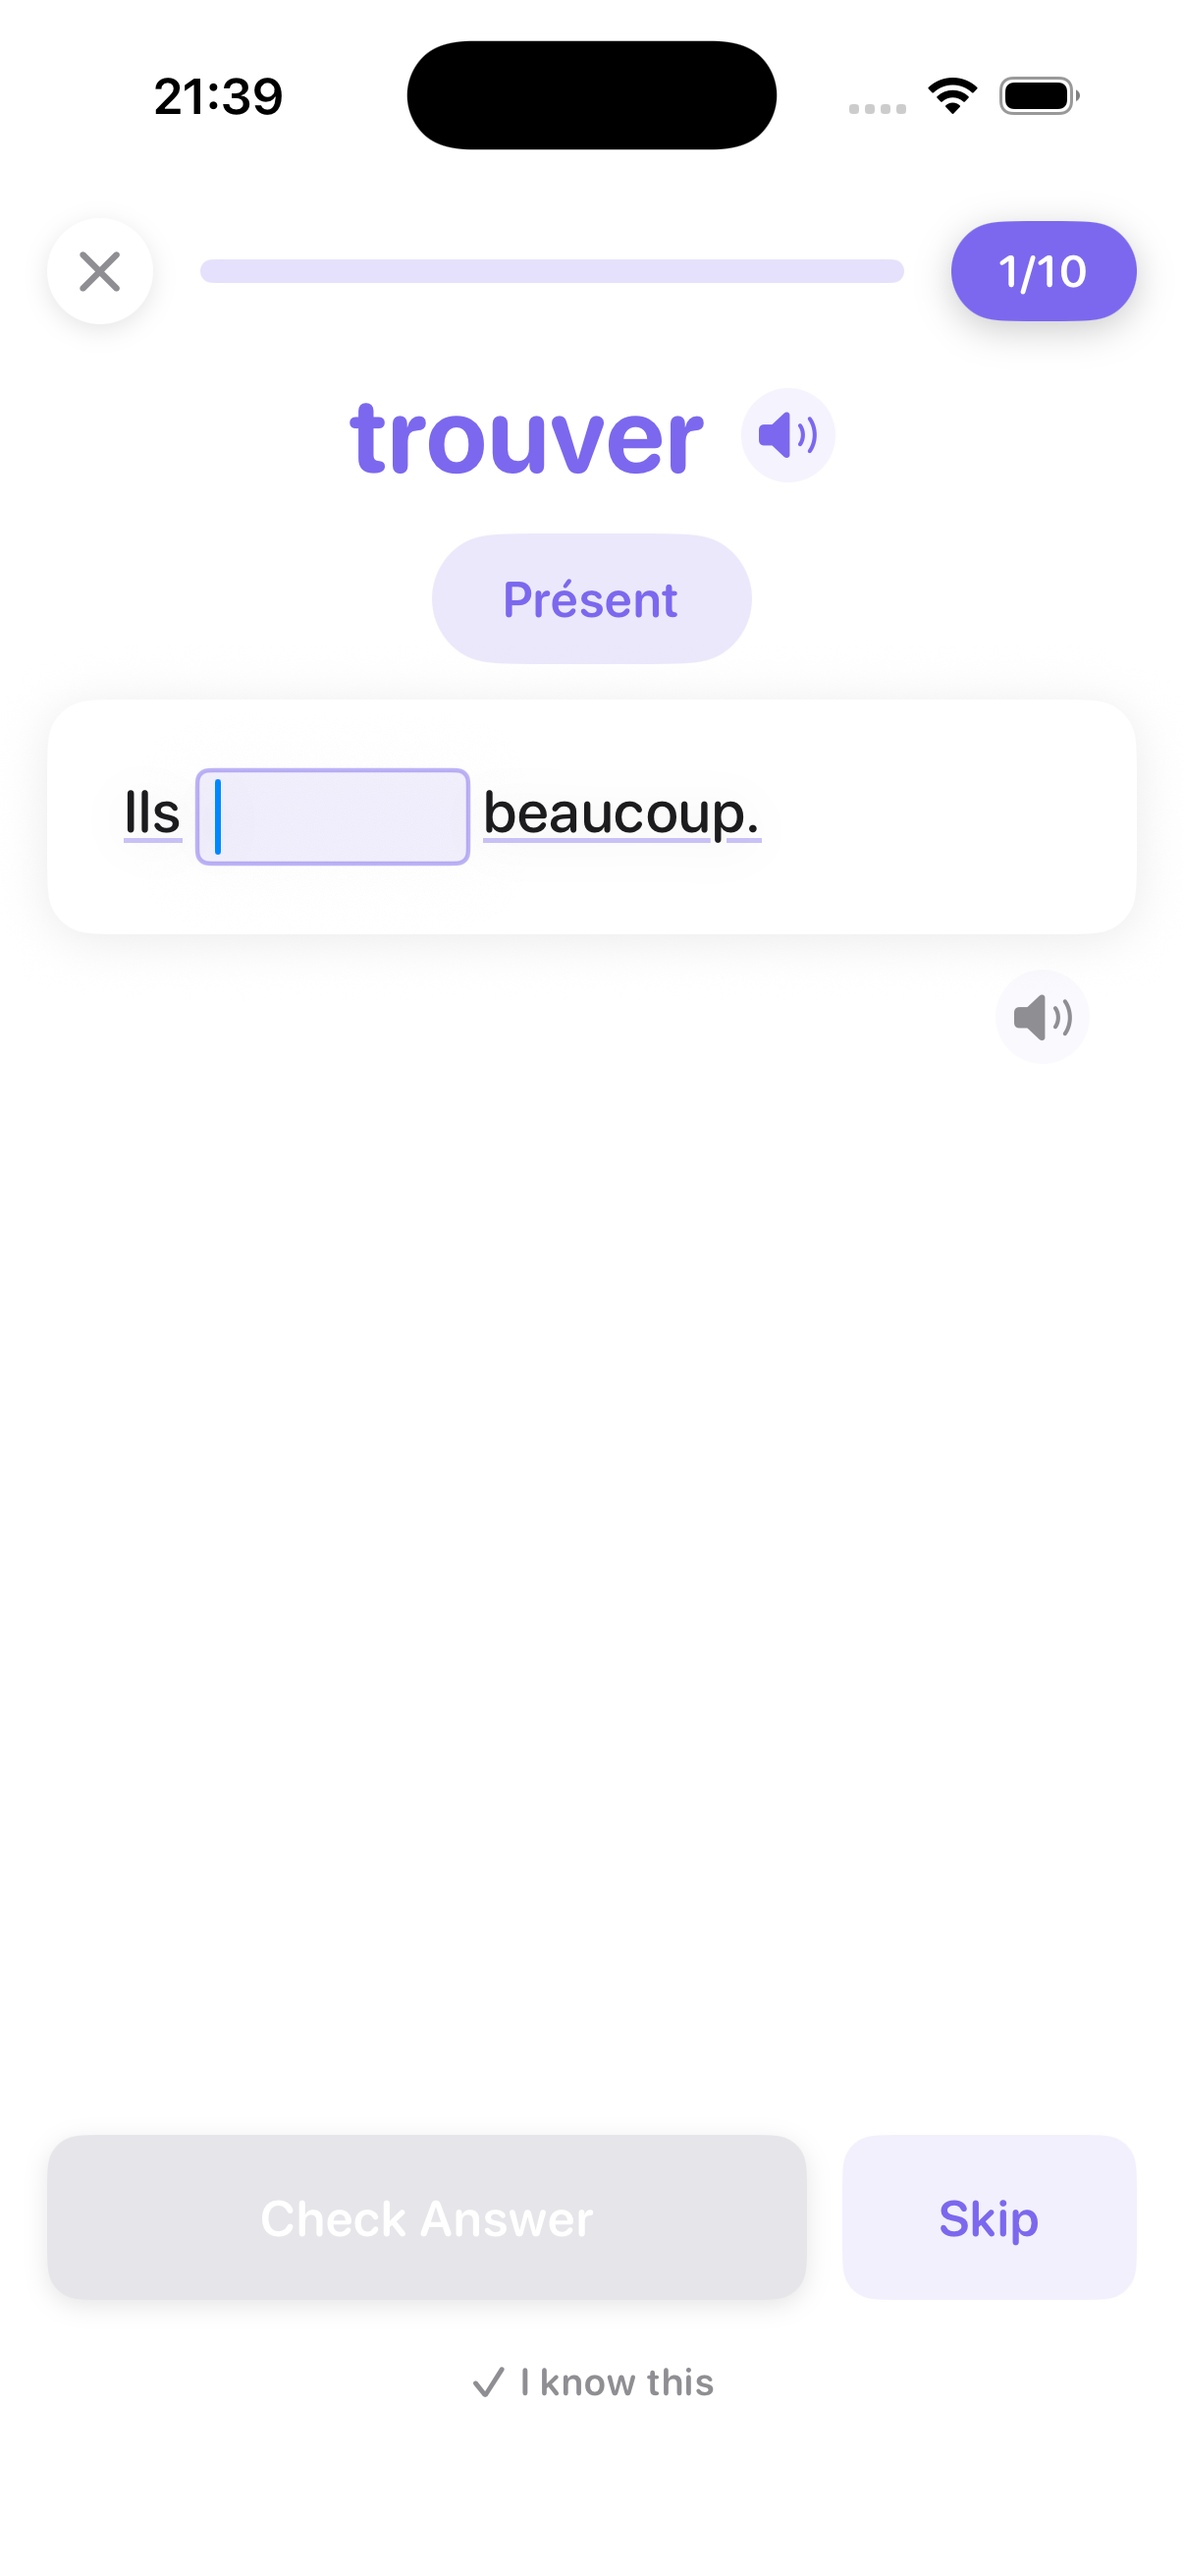
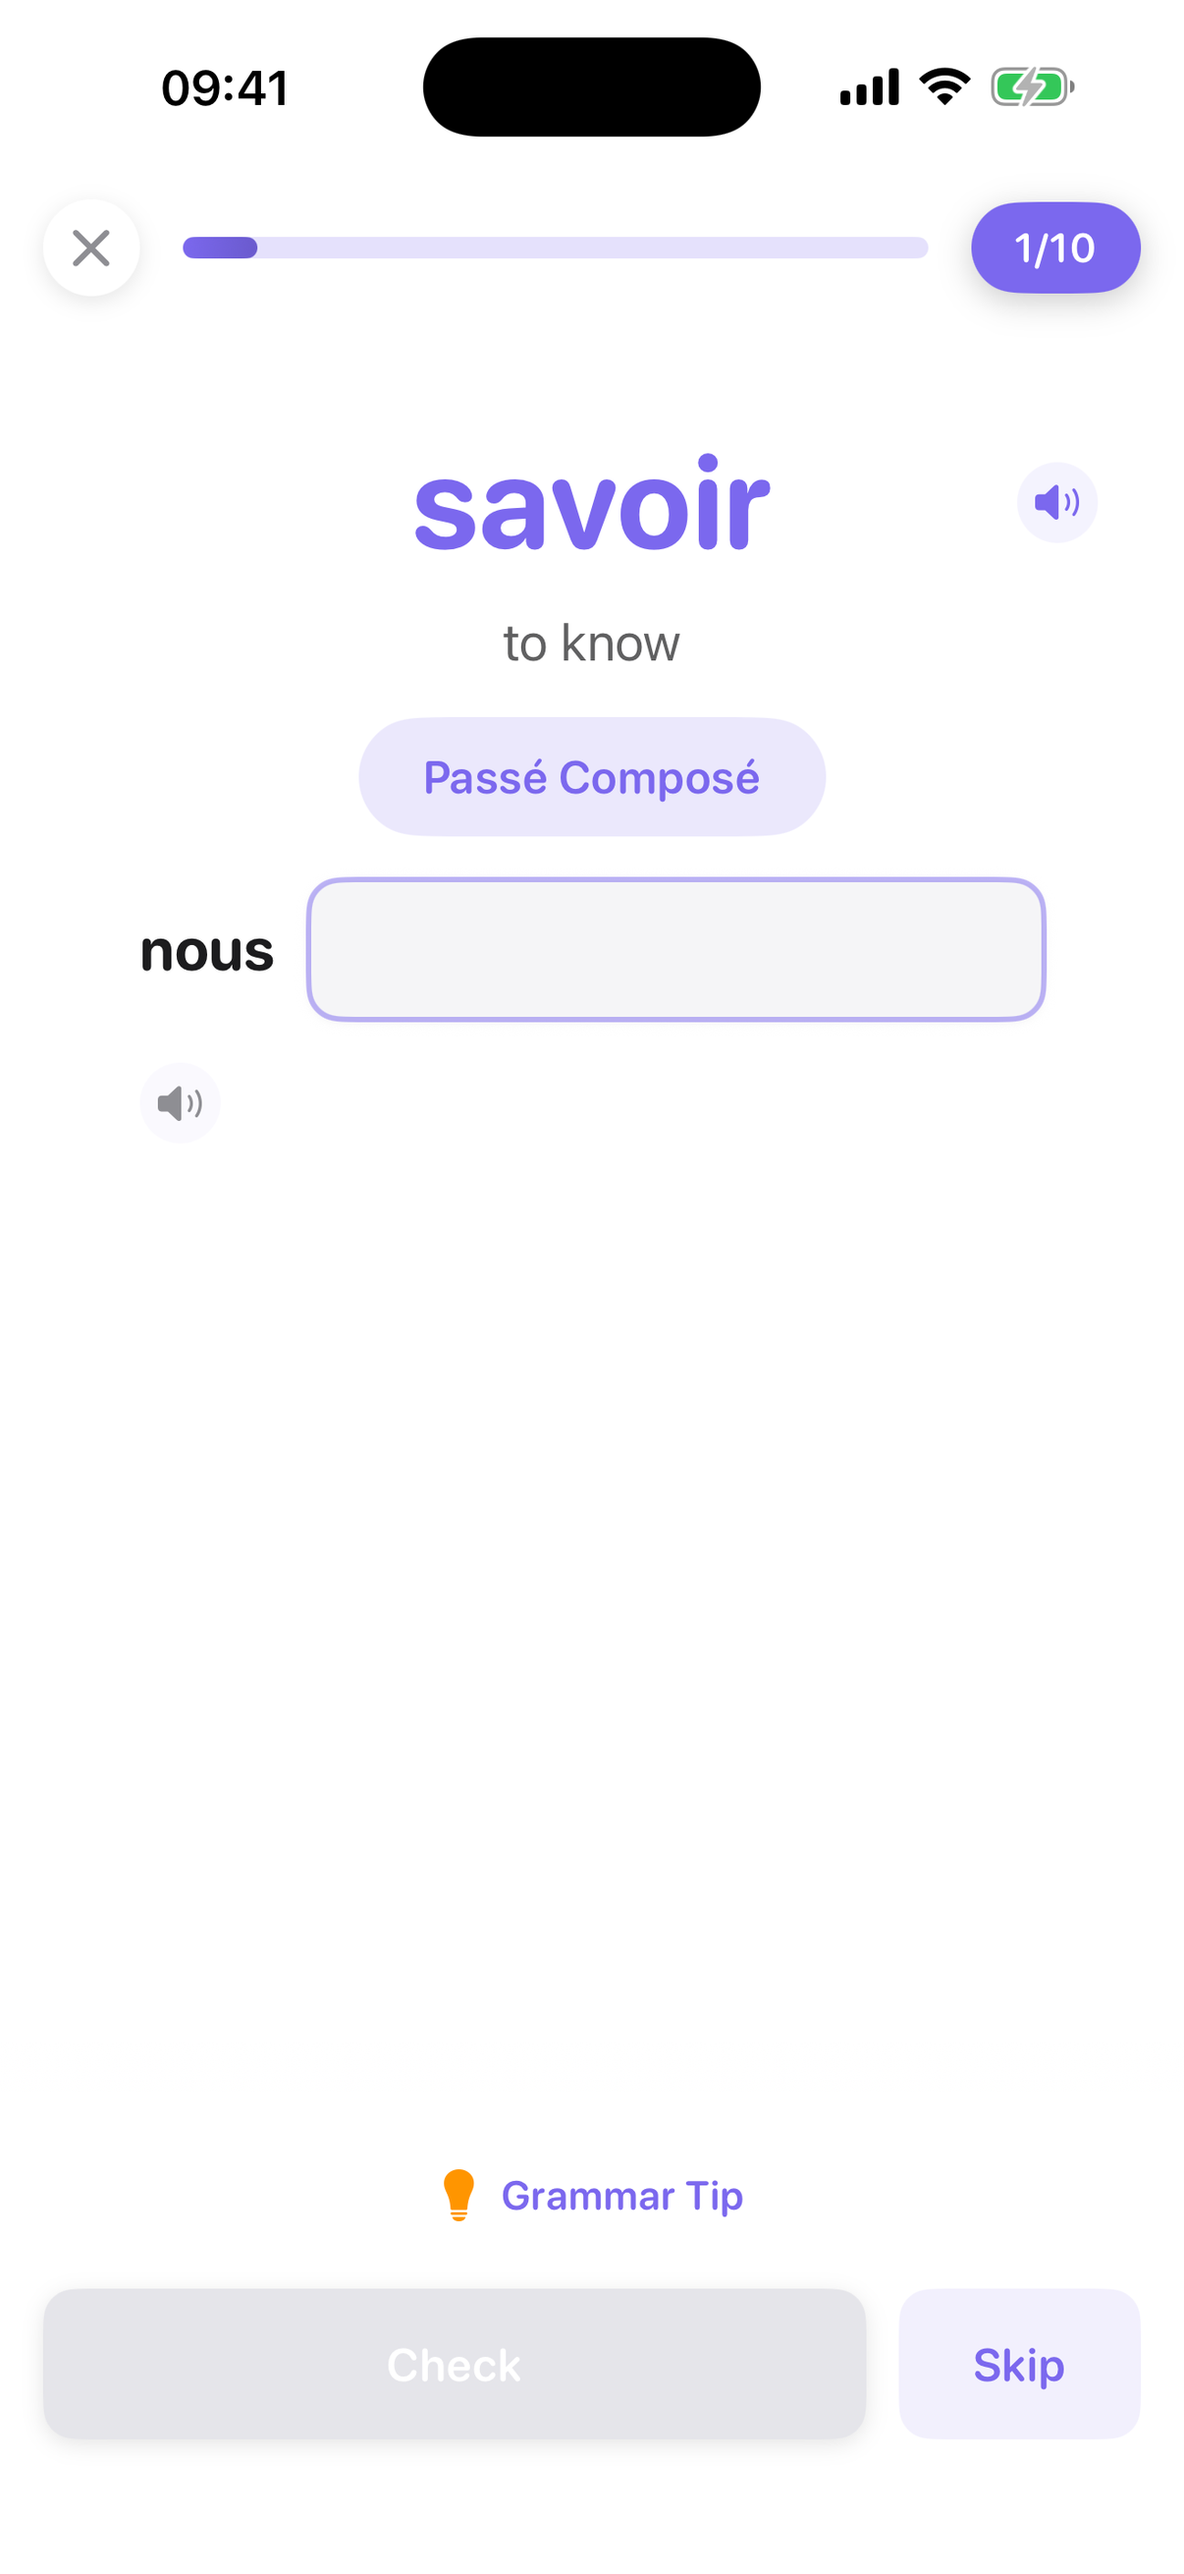
Update images

diff --git a/index.md b/index.md
@@ -1,7 +1,7 @@
 ---
 layout: default
 title: "ConjuGo — Master French Verb Conjugation in 5 Minutes a Day"
-description: "Stop guessing French verb endings. ConjuGo drills 6,285 verbs across the five tenses of everyday French, with spaced repetition and plain-English grammar guides."
+description: "Stop guessing French verb endings. ConjuGo drills 6,000+ verbs across the five tenses of everyday French, with spaced repetition and plain-English grammar guides."
 ---
 
 <!-- HERO -->
@@ -11,7 +11,7 @@ description: "Stop guessing French verb endings. ConjuGo drills 6,285 verbs acro
       <span class="eyebrow">iPhone &amp; iPad · Free 7-day trial</span>
       <h1>Finally, <span class="accent">French conjugation</span> that clicks.</h1>
       <p class="hero-sub">
-        <strong>6,285 verbs. Five essential tenses. 5 minutes a day.</strong> ConjuGo drills the exact forms you keep getting wrong — so you stop freezing mid-sentence and start speaking with confidence.
+        <strong>6,000+ verbs. Five essential tenses. 5 minutes a day.</strong> ConjuGo drills the exact forms you keep getting wrong — so you stop freezing mid-sentence and start speaking with confidence.
       </p>
       <div class="cta-row">
         <a href="#download" class="btn-primary">
@@ -28,7 +28,7 @@ description: "Stop guessing French verb endings. ConjuGo drills 6,285 verbs acro
 
     <div class="hero-visual">
       <div class="phone-shot">
-        <img src="{{ '/assets/img/screen-home.png' | relative_url }}" alt="ConjuGo home screen showing weekly progress, streak, and daily practice">
+        <img src="{{ '/assets/img/screen-home.png' | relative_url }}" alt="ConjuGo home screen showing a daily goal of 9 of 20 conjugations at 45 percent, a one-day streak, the week's practice days, and the verbs coming up next">
       </div>
     </div>
   </div>
@@ -45,7 +45,7 @@ description: "Stop guessing French verb endings. ConjuGo drills 6,285 verbs acro
     <div class="features">
       <div class="feature">
         <div class="feature-icon">📚</div>
-        <h3>6,285 real verbs</h3>
+        <h3>6,000+ real verbs</h3>
         <p>Every French verb you'll actually meet — regular, irregular, reflexive, and the messy exceptions textbooks skip.</p>
       </div>
       <div class="feature">
@@ -115,7 +115,7 @@ description: "Stop guessing French verb endings. ConjuGo drills 6,285 verbs acro
     </div>
     <div class="visual">
       <div class="phone-shot" style="width: 260px;">
-        <img src="{{ '/assets/img/screen-drill.png' | relative_url }}" alt="ConjuGo drill screen asking you to conjugate 'trouver' in the présent tense">
+        <img src="{{ '/assets/img/screen-drill.png' | relative_url }}" alt="ConjuGo drill screen asking you to conjugate 'savoir' for 'nous' in the passé composé">
       </div>
     </div>
   </div>
@@ -126,7 +126,7 @@ description: "Stop guessing French verb endings. ConjuGo drills 6,285 verbs acro
   <div class="container">
     <div class="stats">
       <div class="stat">
-        <div class="num">6,285</div>
+        <div class="num">6,000+</div>
         <div class="label">French verbs</div>
       </div>
       <div class="stat">
@@ -204,7 +204,7 @@ description: "Stop guessing French verb endings. ConjuGo drills 6,285 verbs acro
       </details>
       <details>
         <summary>What's included in the free trial?</summary>
-        <p>7 days of full access — all 6,285 verbs, all five tenses, smart drills, grammar guides. No credit card tricks. Cancel any time in Settings, keep using your streak data if you decide to stay.</p>
+        <p>7 days of full access — all 6,000+ verbs, all five tenses, smart drills, grammar guides. No credit card tricks. Cancel any time in Settings, keep using your streak data if you decide to stay.</p>
       </details>
       <details>
         <summary>What does it cost after the trial?</summary>
